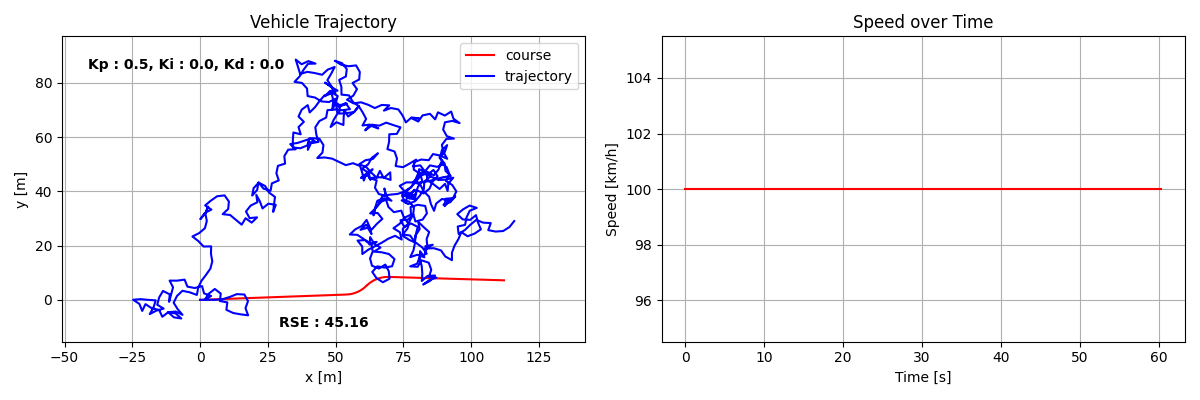
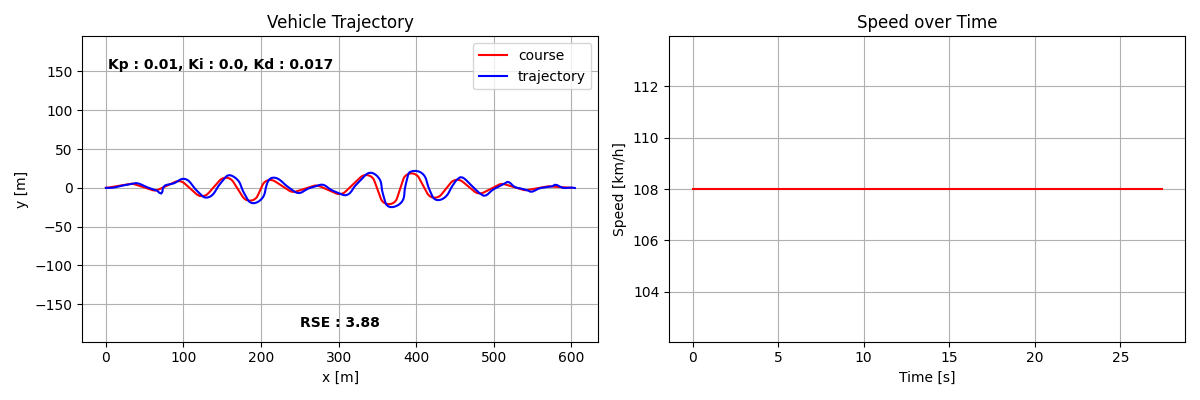
feat : find constant 108km/h

diff --git a/working_space/path_tracker/discret_pid/simple.py b/working_space/path_tracker/discret_pid/simple.py
@@ -10,7 +10,7 @@ from capdilib.convention import Waypoint
 from capdilib.state_states import State, State_list
 from capdilib.path_handler import PathHanlder
 from capdilib.target_course import TargetCourse
-from utils.plot import plot_arow
+from utils.plot import plot_arrow
 from capdilib.convention import X, Y, YAW
 
 # Parameters
@@ -42,27 +42,69 @@ def calculate_error(state, trajectory, pind):
 def main():
     ##################################################
     # LLM
-    path: list[Waypoint] = [ np.array([0.0, 0.0, np.deg2rad(0.)]), # LSL
-                             np.array([61.4, 5.2, np.deg2rad(45.)]), # RSR
-                             np.array([112.1, 7.2, np.deg2rad(0.)]) ]
-    SPEED = 100.0 # [km/h]
+    # path: list[Waypoint] = [ np.array([0.0, 0.0, np.deg2rad(0.)]), # LSL
+    #                          np.array([61.4, 5.2, np.deg2rad(45.)]), # RSR
+    #                          np.array([112.1, 7.2, np.deg2rad(0.)]) ]
+    path = [
+        np.array([0.0, 0.0, np.deg2rad(0)]),
+        np.array([30.0, 5.0, np.deg2rad(15)]),
+        np.array([60.0, -3.0, np.deg2rad(-15)]),
+        np.array([90.0, 8.0, np.deg2rad(20)]),
+        np.array([120.0, -10.0, np.deg2rad(-20)]),
+        np.array([150.0, 12.0, np.deg2rad(25)]),
+        np.array([180.0, -15.0, np.deg2rad(-30)]),
+        np.array([210.0, 10.0, np.deg2rad(10)]),
+        np.array([240.0, -5.0, np.deg2rad(-10)]),
+        np.array([270.0, 3.0, np.deg2rad(5)]),
+        np.array([300.0, -8.0, np.deg2rad(-5)]),
+        np.array([330.0, 15.0, np.deg2rad(30)]),
+        np.array([360.0, -20.0, np.deg2rad(-25)]),
+        np.array([390.0, 18.0, np.deg2rad(20)]),
+        np.array([420.0, -12.0, np.deg2rad(-20)]),
+        np.array([450.0, 10.0, np.deg2rad(15)]),
+        np.array([480.0, -7.0, np.deg2rad(-10)]),
+        np.array([510.0, 5.0, np.deg2rad(5)]),
+        np.array([540.0, -3.0, np.deg2rad(-5)]),
+        np.array([570.0, 2.0, np.deg2rad(3)]),
+        np.array([600.0, 0.0, np.deg2rad(0)])
+    ]
+    #
+    
+    OFFSET = 150 # [m]
     END_TIME = 100.0  # max simulation time
-    # K_P, K_I, K_D = 0.01, 0.0, 0.0            # Case 1
+
+    # SPEED = 10.0 # [km/h]
+    # K_P, K_I, K_D = 0.010, 0.0, 0.0            # Case 1
     # K_P, K_I, K_D = 0.025, 0.0, 0.0           # Case 2
-    # K_P, K_I, K_D = 0.05, 0.0, 0.0            # Case 3
+    # K_P, K_I, K_D = 0.050, 0.0, 0.0            # Case 3
     # K_P, K_I, K_D = 0.075, 0.0, 0.0           # Case 4
-    # K_P, K_I, K_D = 0.10, 0.0, 0.0            # Case 5
-    # K_P, K_I, K_D = 0.15, 0.0, 0.0              # Case 6
+    # K_P, K_I, K_D = 0.100, 0.0, 0.0            # Case 5
+    # K_P, K_I, K_D = 0.150, 0.0, 0.0              # Case 6
 
-    K_P, K_I, K_D = 0.50, 0.0, 0.0              # Case 6
-
-
-    # K_P, K_I, K_D = 0.05, 0.00, 0.1          # Case 7
-    # K_P, K_I, K_D = 0.05, 0.00, 0.12          # Case 7
-    # K_P, K_I, K_D = 0.05, 0.00, 0.15          # Case 7
+    # K_P, K_I, K_D = 0.05, 0.00, 0.100          # Case 7
+    # K_P, K_I, K_D = 0.05, 0.00, 0.120          # Case 7 <<<<<<<<<<<<
+    # K_P, K_I, K_D = 0.05, 0.00, 0.150          # Case 7
     # K_P, K_I, K_D = 0.05, 0.00, 0.156          # Case 7
     # K_P, K_I, K_D = 0.05, 0.00, 0.157          # Case 7
-    # K_P, K_I, K_D = 0.05, 0.00, 0.2          # Case 7
+    # K_P, K_I, K_D = 0.05, 0.00, 0.200          # Case 7
+
+    SPEED = 108.0 # [km/h]
+    # K_P, K_I, K_D = 0.005, 0.0, 0.0              # Case 6
+    # K_P, K_I, K_D = 0.010, 0.0, 0.0              # Case 6
+    # K_P, K_I, K_D = 0.020, 0.0, 0.0              # Case 6
+    # K_P, K_I, K_D = 0.030, 0.0, 0.0              # Case 6
+    # K_P, K_I, K_D = 0.040, 0.0, 0.0              # Case 6
+    # K_P, K_I, K_D = 0.050, 0.0, 0.0              # Case 6
+
+    # K_P, K_I, K_D = 0.010, 0.0, 0.010             # Case 6
+    # K_P, K_I, K_D = 0.010, 0.0, 0.0150             # Case 6
+    # K_P, K_I, K_D = 0.010, 0.0, 0.0160             # Case 6
+    K_P, K_I, K_D = 0.010, 0.0, 0.0170             # Case 6
+    # K_P, K_I, K_D = 0.010, 0.0, 0.0180             # Case 6
+    # K_P, K_I, K_D = 0.010, 0.0, 0.0200              # Case 6
+    # K_P, K_I, K_D = 0.010, 0.0, 0.0250             # Case 6
+
+
     ##################################################
 
     dt = 0.1
@@ -127,6 +169,8 @@ def main():
             plt.plot(state_list.x, state_list.y, "-b", label="trajectory")
             plt.plot(target_path_x[target_index], target_path_y[target_index], "xg", label="target")
             plt.axis("equal")
+            plt.xlim(state.x - OFFSET, state.x + OFFSET)
+            plt.ylim(state.y - OFFSET, state.y + OFFSET)
             plt.grid(True)
             plt.title("Speed[km/h]:" + str(state.v * 3.6)[:4])
             plt.pause(0.001)